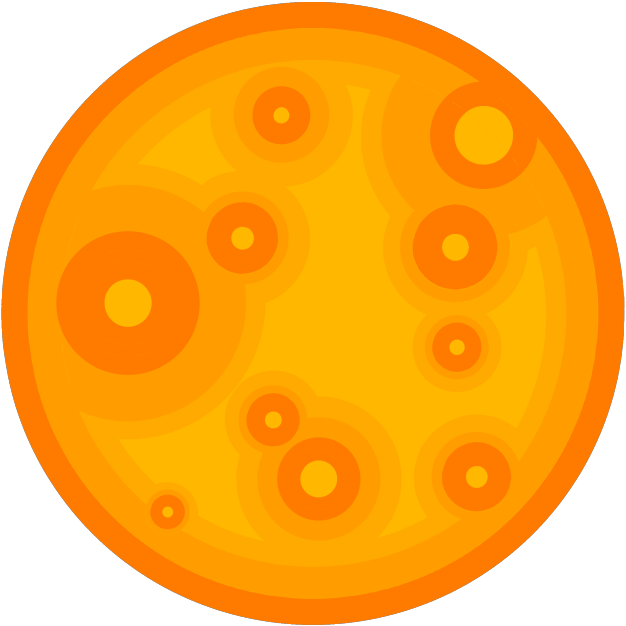
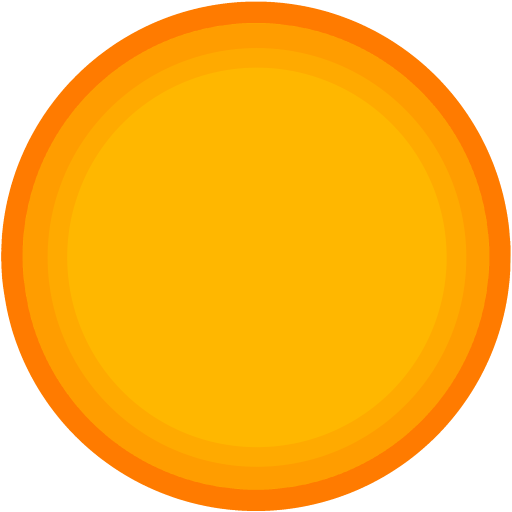
depot final c'est emouvant

diff --git a/pages/Mercure.html b/pages/Mercure.html
@@ -4,7 +4,7 @@
     <meta http-equiv="X-UA-Compatible" content="IE=edge">
     <meta name="viewport" content="width=device-width, initial-scale=1.0">
     <link href="pagecss.css" rel="stylesheet">
-    <link rel="icon" type="image/png" href="../images/mercure.png" />
+    <link rel="icon" type="image/png" href="../images/mercure2.png" />
     <script src="../paralax.js" defer></script>
     <title>ATLAS | Mercure</title>
 </head>

diff --git a/pages/Saturne.html b/pages/Saturne.html
@@ -4,7 +4,7 @@
     <meta http-equiv="X-UA-Compatible" content="IE=edge">
     <meta name="viewport" content="width=device-width, initial-scale=1.0">
     <link href="pagecss.css" rel="stylesheet">
-    <link rel="icon" type="image/png" href="../images/saturne.png" />
+    <link rel="icon" type="image/png" href="../images/saturne3.png" />
     <script src="../paralax.js" defer></script>
     <title>ATLAS | Saturne</title>
 </head>

diff --git a/pages/Soleil.html b/pages/Soleil.html
@@ -4,7 +4,7 @@
     <meta http-equiv="X-UA-Compatible" content="IE=edge">
     <meta name="viewport" content="width=device-width, initial-scale=1.0">
     <link href="pagecss.css" rel="stylesheet">
-    <link rel="icon" type="image/png" href="../images/soleil.png" />
+    <link rel="icon" type="image/png" href="../images/soleil2.png" />
     <script src="../paralax.js" defer></script>
     <title>ATLAS | Soleil</title>
 </head>

diff --git a/pages/Terre.html b/pages/Terre.html
@@ -4,7 +4,7 @@
     <meta http-equiv="X-UA-Compatible" content="IE=edge">
     <meta name="viewport" content="width=device-width, initial-scale=1.0">
     <link href="pagecss.css" rel="stylesheet">
-    <link rel="icon" type="image/png" href="../images/terre.png" />
+    <link rel="icon" type="image/png" href="../images/terre2.png" />
     <script src="../paralax.js" defer></script>
     <title>ATLAS | Terre</title>
 </head>

diff --git a/pages/Venus.html b/pages/Venus.html
@@ -4,7 +4,7 @@
     <meta http-equiv="X-UA-Compatible" content="IE=edge">
     <meta name="viewport" content="width=device-width, initial-scale=1.0">
     <link href="pagecss.css" rel="stylesheet">
-    <link rel="icon" type="image/png" href="../images/venus.png" />
+    <link rel="icon" type="image/png" href="../images/venus2.png" />
     <script src="../paralax.js" defer></script>
     <title>ATLAS | Venus</title>
 </head>

diff --git a/pages/Mars.html b/pages/Mars.html
@@ -4,7 +4,7 @@
     <meta http-equiv="X-UA-Compatible" content="IE=edge">
     <meta name="viewport" content="width=device-width, initial-scale=1.0">
     <link href="pagecss.css" rel="stylesheet">
-    <link rel="icon" type="image/png" href="../images/mars.png" />
+    <link rel="icon" type="image/png" href="../images/mars2.png" />
     <script src="../paralax.js" defer></script>
     <title>ATLAS | Mars</title>
 </head>

diff --git a/index.html b/index.html
@@ -4,7 +4,7 @@
     <meta http-equiv="X-UA-Compatible" content="IE=edge">
     <meta name="viewport" content="width=device-width, initial-scale=1.0">
     <link href="indexcss.css" rel="stylesheet">
-    <link rel="icon" type="image/png" href="images/soleil.png" />
+    <link rel="icon" type="image/png" href="images/soleil2.png" />
     <script src="paralax.js" defer></script>
     <title>ATLAS</title>
 </head>
